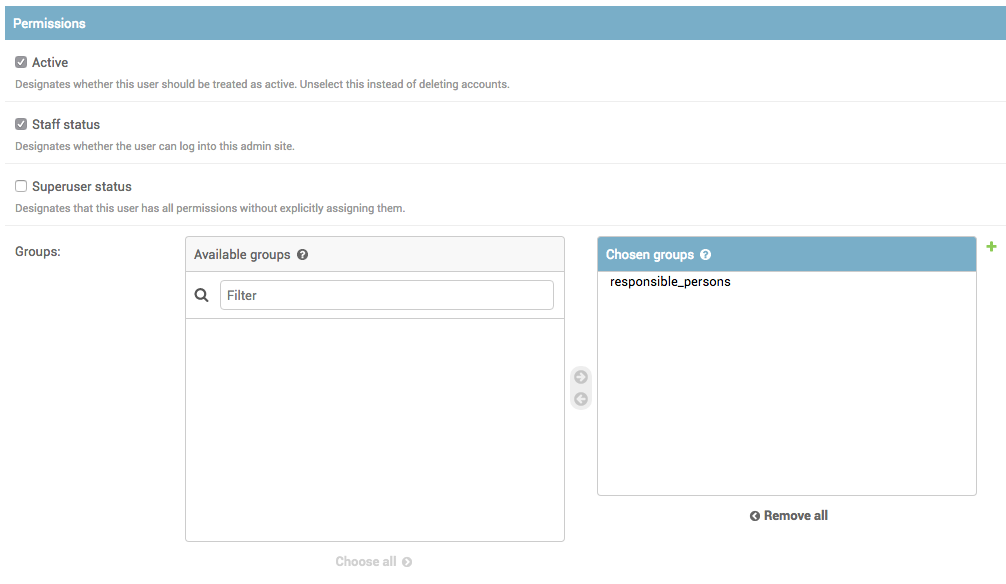
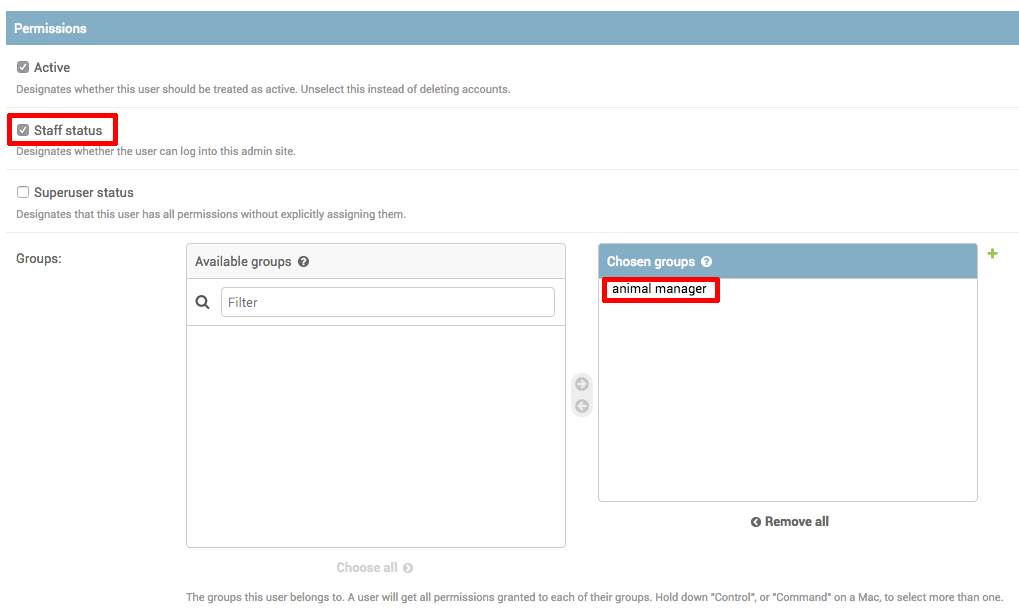
DOCU: make a user an animal manager

diff --git a/doc/index.rst b/doc/index.rst
@@ -74,23 +74,14 @@ This will listen on ``http://localhost:8000``, so browse to the admin page
 
 .. image:: img/admin_empty.png
 
+You can also import a dummy set of data using the ``loaddata`` command::
 
-Click on ``Animals`` -> ``Add`` to add an animal.
+   python manage.py loaddata initial_data.json
 
-.. image:: img/admin_add_animal.png
-   :width: 40%
-
-All fields in bold **need** to be filled in, the others are optional.
-
-After adding several animals, the main (index) view should look like this:
+After loading the data, the main admin interface should look like this:
 
 .. image:: img/admin_after_loaddata.png
 
-.. Note:: Alternatively, you can also import a dummy set of data using the ``loaddata`` command:
-
-::
-
-   python manage.py loaddata initial_data.json
 
 Importing existing data
 ^^^^^^^^^^^^^^^^^^^^^^^
@@ -117,20 +108,31 @@ You can invoke the django tests like so::
 Using the software
 ------------------
 
-The webservice is split in two parts: The **input** method is via the Django Admin interface (See link
-"Add Animal" top right) and is meant for *animal administrators* only. 
+.. image:: img/anishare_index_highlight.png
+
+The webservice is split in two parts: The **animal input** method is via the Django Admin interface (See link
+"Add Animal" top right) and is meant for *animal managers* only. 
 The **claim** method is via the normal web interface and is meant for normal users (who need to be
 authenticated, though).
 
-In order to be able to add/edit animals, a user has to be in the group *responsible_person* and be a
-*staff* member in django admin.
 
-.. image:: img/admin_permissions_user.png
-   :width: 75%
+Main animal manager tasks
+^^^^^^^^^^^^^^^^^^^^^^^^^
+An *animal manager* can add animals to the database.
 
-In order to promote a *user* to an *animal administrator*, an *administrator* has to set these
-values (*staff* and group *responsible_person*) in the admin interface in "Authentication and
-Authorization" -> "Users".
+.. image:: img/admin_overview_manager.png
+   :width: 60%
+
+Click on ``Animals`` -> ``Add`` to add an animal.
+
+.. image:: img/admin_add_animal.png
+   :width: 40%
+
+All fields in bold **need** to be filled in, the others are optional.
+
+After adding several animals, the main (index) view should look like this:
+
+.. image:: img/admin_after_loaddata.png
 
 Main admin tasks
 ^^^^^^^^^^^^^^^^
@@ -140,26 +142,60 @@ The admin interface allows to edit the following types of entries:
    :width: 60%
 
 Animals
-   The main category, animals to share.
-   Here, several filters (such as "sex", "location", etc.) are available to search for any set of animals.
+""""""
+
+The main category to administer are animals to share.
+Here, several filters (such as "sex", "location", etc.) are available to search for any set of animals.
+
 .. image:: img/admin_animals.png
+
 .. Note:: in order to remove a claim (thus making the animal available again), either click on an animal 
           and remove the email address from the field "new owner", or select one or multiple animals and 
           select the "clear claim" *Action* and click "Go".
 .. Note:: Once created, an animal cannot be deleted, except by the administrator.
+
 Labs
-   are research labs/research groups and need to have at least one responsible/contact person each
+""""
+
+Labs are research labs/research groups and need to have at least one responsible/contact person each
+
 .. image:: img/admin_labs.png
    :width: 60%
+
+.. Note:: Only *administrators* are allowed to see and change Labs
+
 Locations
-   are where animals are stored. Usually something like room numbers or "animal house" or "fish facility".
+"""""""""
+
+Locations are where animals are stored. Usually something like room numbers or "animal house" or "fish facility".
+
 .. image:: img/admin_locations.png
    :width: 60%
+
+.. Note:: Only *administrators* are allowed to see and change Locations
+
 Persons
-   responsible for the animals. Could be a vet or similar.
-   Every animal needs to have a responsible person associated to them. This person then gets
-   an email when the animal is being claimed.
+"""""""
+
+Persons responsible for the animals. Could be a vet or similar.
+Every animal needs to have a responsible person associated to them. This person then gets
+an email when the animal is being claimed.
+
 .. image:: img/admin_persons.png
+
+.. Note:: Only *administrators* are allowed to see and change Persons
+
+Make a user an animal manager
+"""""""""""""""""""""""""""""
+
+In order to be able to add/edit animals, a user has to be in the group *animal manager* and have
+*staff status* in django admin. For this, an *administrator* has to go to the `user management
+<https://anishare.leibniz-fli.de/admin/auth/user/>`_ in the admin interface by clicking "Home" -> "Authentication and
+Authorization" -> "Users". Here, they can make a *user* an *animal manager*, by setting these values (*staff*
+and group *animal manager*):
+
+.. image:: img/admin_permissions_user.png
+   :width: 75%
 
 
 Main user interface
@@ -186,7 +222,7 @@ RSS Feed
 ^^^^^^^^
 
 An RSS feed containing the latest ten animals is automatically generated and can be found at
-`http://localhost:8000/animals/feed`. Users can subscribe (Most email clients allow the subscription
+`/animals/feed`. Users can subscribe (Most email clients allow the subscription
 to RSS feeds) to this feed to stay up-to-date with the animal catalogue. By clicking on a link in
 the feed, they are directed to the claim page of the individual animal.
 

diff --git a/TODO.md b/TODO.md
@@ -5,7 +5,7 @@
 - [X] login required
 - [X] only resp. person to add animals
 - [X] responsible person should be in alphabetical order
-- [maybe] use logged in resp person for resp person? foreignkey to users?
+- [N] use logged in resp person for resp person? foreignkey to users?
 - [X] log who offered the animal
 - [  ] send email to resp person when animal created
 - [X] show who created the animal in normal list
